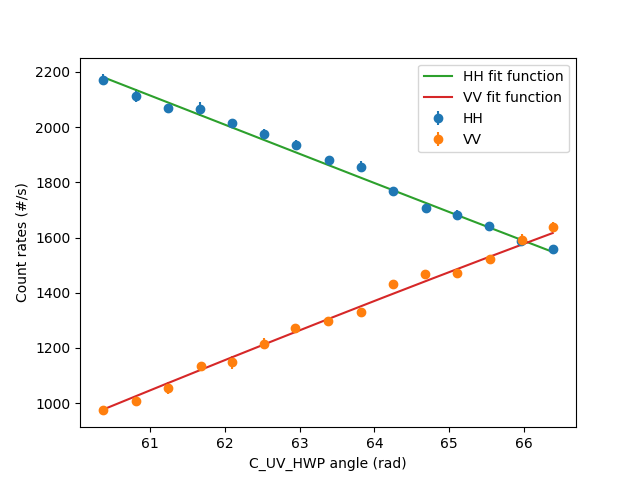
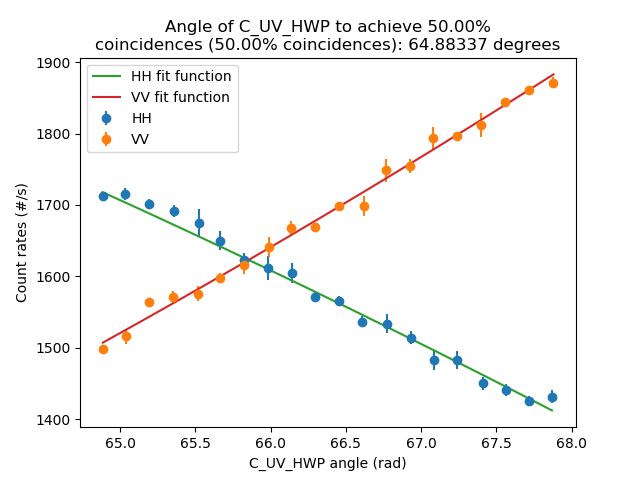
updates from fixing the balancing script as well as efficiency changes

diff --git a/framework/core/ccu.py b/framework/core/ccu.py
@@ -18,6 +18,7 @@ import csv
 
 # package imports
 import numpy as np
+import scipy.stats as stats
 import matplotlib.pyplot as plt
 
 # ccu class
@@ -41,12 +42,13 @@ class CCU:
     # +++ class variables +++
     UPDATE_PERIOD = 0.1 # from device documentation
     CHANNEL_KEYS = ['A', 'B', 'A\'', 'B\'', 'C4', 'C5', 'C6', 'C7'] # for our setup
+    NUM_CHANNEL = len(CHANNEL_KEYS)
     TERMINATION_BYTE = 0xff # from device documentation
 
     # +++ plotting parameters +++
     # all in units of 0.1s
     PLOT_XLIM = 600
-    PLOT_SMOOTHING = 30
+    PLOT_SMOOTHING = 5
     
     # +++ BASIC METHODS +++
 
@@ -415,9 +417,9 @@ class CCU:
         return
 
     # +++ PUBLIC METHODS +++
-
+    '''
     def count_rates(self, period:float) -> np.ndarray:
-        ''' Acquires the coincidence count rates from the CCU over the specified period.
+        '' Acquires the coincidence count rates from the CCU over the specified period.
 
         Parameters
         ----------
@@ -428,7 +430,7 @@ class CCU:
         -------
         np.ndarray of size (8,)
             Coincidence count RATES from the CCU. Each element corresponds to a detector/coincidence [A, B, A', B', C4, C5, C6, C7] (in order).
-        '''
+        ''
         # calculate number of data points to collect
         num_data = max(int(period / self.UPDATE_PERIOD), 1)
         # request data
@@ -440,3 +442,27 @@ class CCU:
         # accumulate data and convert to rate
         actual_period = num_data * self.UPDATE_PERIOD # may be different from period
         return np.sum(data_out, axis=0) / actual_period
+    '''
+    def acquire_data(self, num_samp:int, samp_period:float) -> np.ndarray:
+        '''
+        
+        '''
+        # calculate sample period in number of data points
+        samp_period = max(int(samp_period / CCU.UPDATE_PERIOD), 1)
+        # calculate total number of data points needed
+        num_data = num_samp * samp_period
+        # request data
+        self._pipe.send(num_data)
+        # wait for data
+        data_out = []
+        while len(data_out) < num_data:
+            data_out.append(self._pipe.recv())
+        # reshape and accumulate data, converting it to a count rate
+        data_out = np.array(data_out).reshape(num_samp, samp_period, CCU.NUM_CHANNEL)
+        actual_period = samp_period * self.UPDATE_PERIOD # may be different from period
+        data_out = np.sum(data_out, axis=1)/actual_period # aggregate by sample
+        # put together the output
+        data_avgs = np.mean(data_out, axis=0)
+        data_sems = stats.sem(data_out, axis=0)
+        return data_avgs, data_sems
+        

diff --git a/framework/core/manager.py b/framework/core/manager.py
@@ -17,8 +17,8 @@ from typing import Union
 import serial
 
 # package imports
+from tqdm import tqdm
 import numpy as np
-import scipy.stats as stats
 import pandas as pd
 
 # local imports
@@ -208,6 +208,21 @@ class Manager:
 
         return data
 
+    @staticmethod
+    def read_csv(filename:str, config:str) -> pd.DataFrame:
+        # read config to get motor names and such
+        with open(config, 'r') as f:
+            cfg = json.load(f)
+        motors = list(cfg['motors'].keys())
+        df = pd.read_csv(filename)
+        df.columns = \
+            [f't_start', 't_end'] + \
+            ['num_samp', 'samp_period'] + \
+            [f'{m}' for m in motors] + \
+            [f'C{i}' for i in range(len(CCU.CHANNEL_KEYS))] + \
+            [f'C{i}_sem' for i in range(len(CCU.CHANNEL_KEYS))]
+
+
     # +++ methods +++
 
     def take_data(self, num_samp:int, samp_period:float) -> None:
@@ -230,17 +245,13 @@ class Manager:
         motor_positions = [self.__dict__[m].pos for m in self._motors]
 
         # record start time
-        start_time = time.time()
+        start_time = datetime.datetime.now().strftime("%Y-%m-%d_%H-%M-%S")
 
         # run trials
-        data = np.row_stack([self._ccu.count_rates(samp_period) for _ in range(num_samp)])
+        data_avg, data_unc = self._ccu.acquire_data(num_samp, samp_period)
         
         # record stop time
-        stop_time = time.time()
-
-        # calculate averages and uncertainties
-        data_avg = np.mean(data, axis=0)
-        data_unc = stats.sem(data, axis=0)
+        stop_time = datetime.datetime.now().strftime("%Y-%m-%d_%H-%M-%S")
 
         # record data
         self._out_writer.writerow(\
@@ -311,7 +322,7 @@ class Manager:
             The period of each sample, in seconds (rounds down to nearest 0.1s, min 0.1s).
         '''
         # loop to perform the sweep
-        for pos in np.linspace(pos_min, pos_max, num_steps):
+        for pos in tqdm(np.linspace(pos_min, pos_max, num_steps)):
             self.configure_motors(**{component:pos})
             self.take_data(num_samp, samp_period)
 

diff --git a/framework/balance.py b/framework/balance.py
@@ -5,14 +5,15 @@ import pandas as pd
 if __name__ == '__main__':
     
     # parameters
-    GUESS = 63.4
-    RANGE = 3
-    N = 15
-    SAMP = (5, 1.5)
+    GUESS = 66.39
+    RANGE = 1.5
+    N = 20
+    SAMP = (5, 3)
 
     COMPONENT = 'C_UV_HWP'
     BASIS1 = 'HH'
     BASIS2 = 'VV'
+    STATE = 'phi_plus'
 
     PCT1 = 0.50
     
@@ -20,8 +21,8 @@ if __name__ == '__main__':
     m = Manager(out_file='balance_sweep_1.csv')
 
     # setup the state configuration
-    print(m.time, 'Configuring phi+ state')
-    m.make_state('phi_plus')
+    print(m.time, f'Configuring {STATE} state')
+    m.make_state(STATE)
 
     # configure measurement basis
     print(m.time, f'Configuring measurement basis {BASIS1}')
@@ -53,9 +54,10 @@ if __name__ == '__main__':
     x = analysis.find_ratio('sin', args1, 'sin', args2, PCT1, data1.C_UV_HWP, GUESS)
 
     # print result
-    print(f'{COMPONENT} angle to find {PCT1*100:.2f}% coincidences ({1-PCT1*100:.2f}% coincidences): {x:.5f}')
+    print(f'{COMPONENT} angle to find {PCT1*100:.2f}% coincidences ({(1-PCT1)*100:.2f}% coincidences): {x:.5f}')
     
     # plot the data and fit
+    plt.title(f'Angle of {COMPONENT} to achieve {PCT1*100:.2f}% {BASIS1}\ncoincidences ({(1-PCT1)*100:.2f}% {BASIS2} coincidences): {x:.5f} degrees')
     plt.xlabel(f'{COMPONENT} angle (rad)')
     plt.ylabel(f'Count rates (#/s)')
     plt.errorbar(data1.C_UV_HWP, data1.C4, yerr=data1.C4_sem, fmt='o', label=BASIS1)

diff --git a/framework/core/motor_drivers.py b/framework/core/motor_drivers.py
@@ -415,7 +415,7 @@ class ElliptecMotor(Motor):
         '''
         if resp[1:3] == b'GS': # status code
             # parse status
-            s = self.get_status(resp)
+            s = self._get_status(resp)
             # return 0 if ok
             if s == 'ok': 
                 return 0
